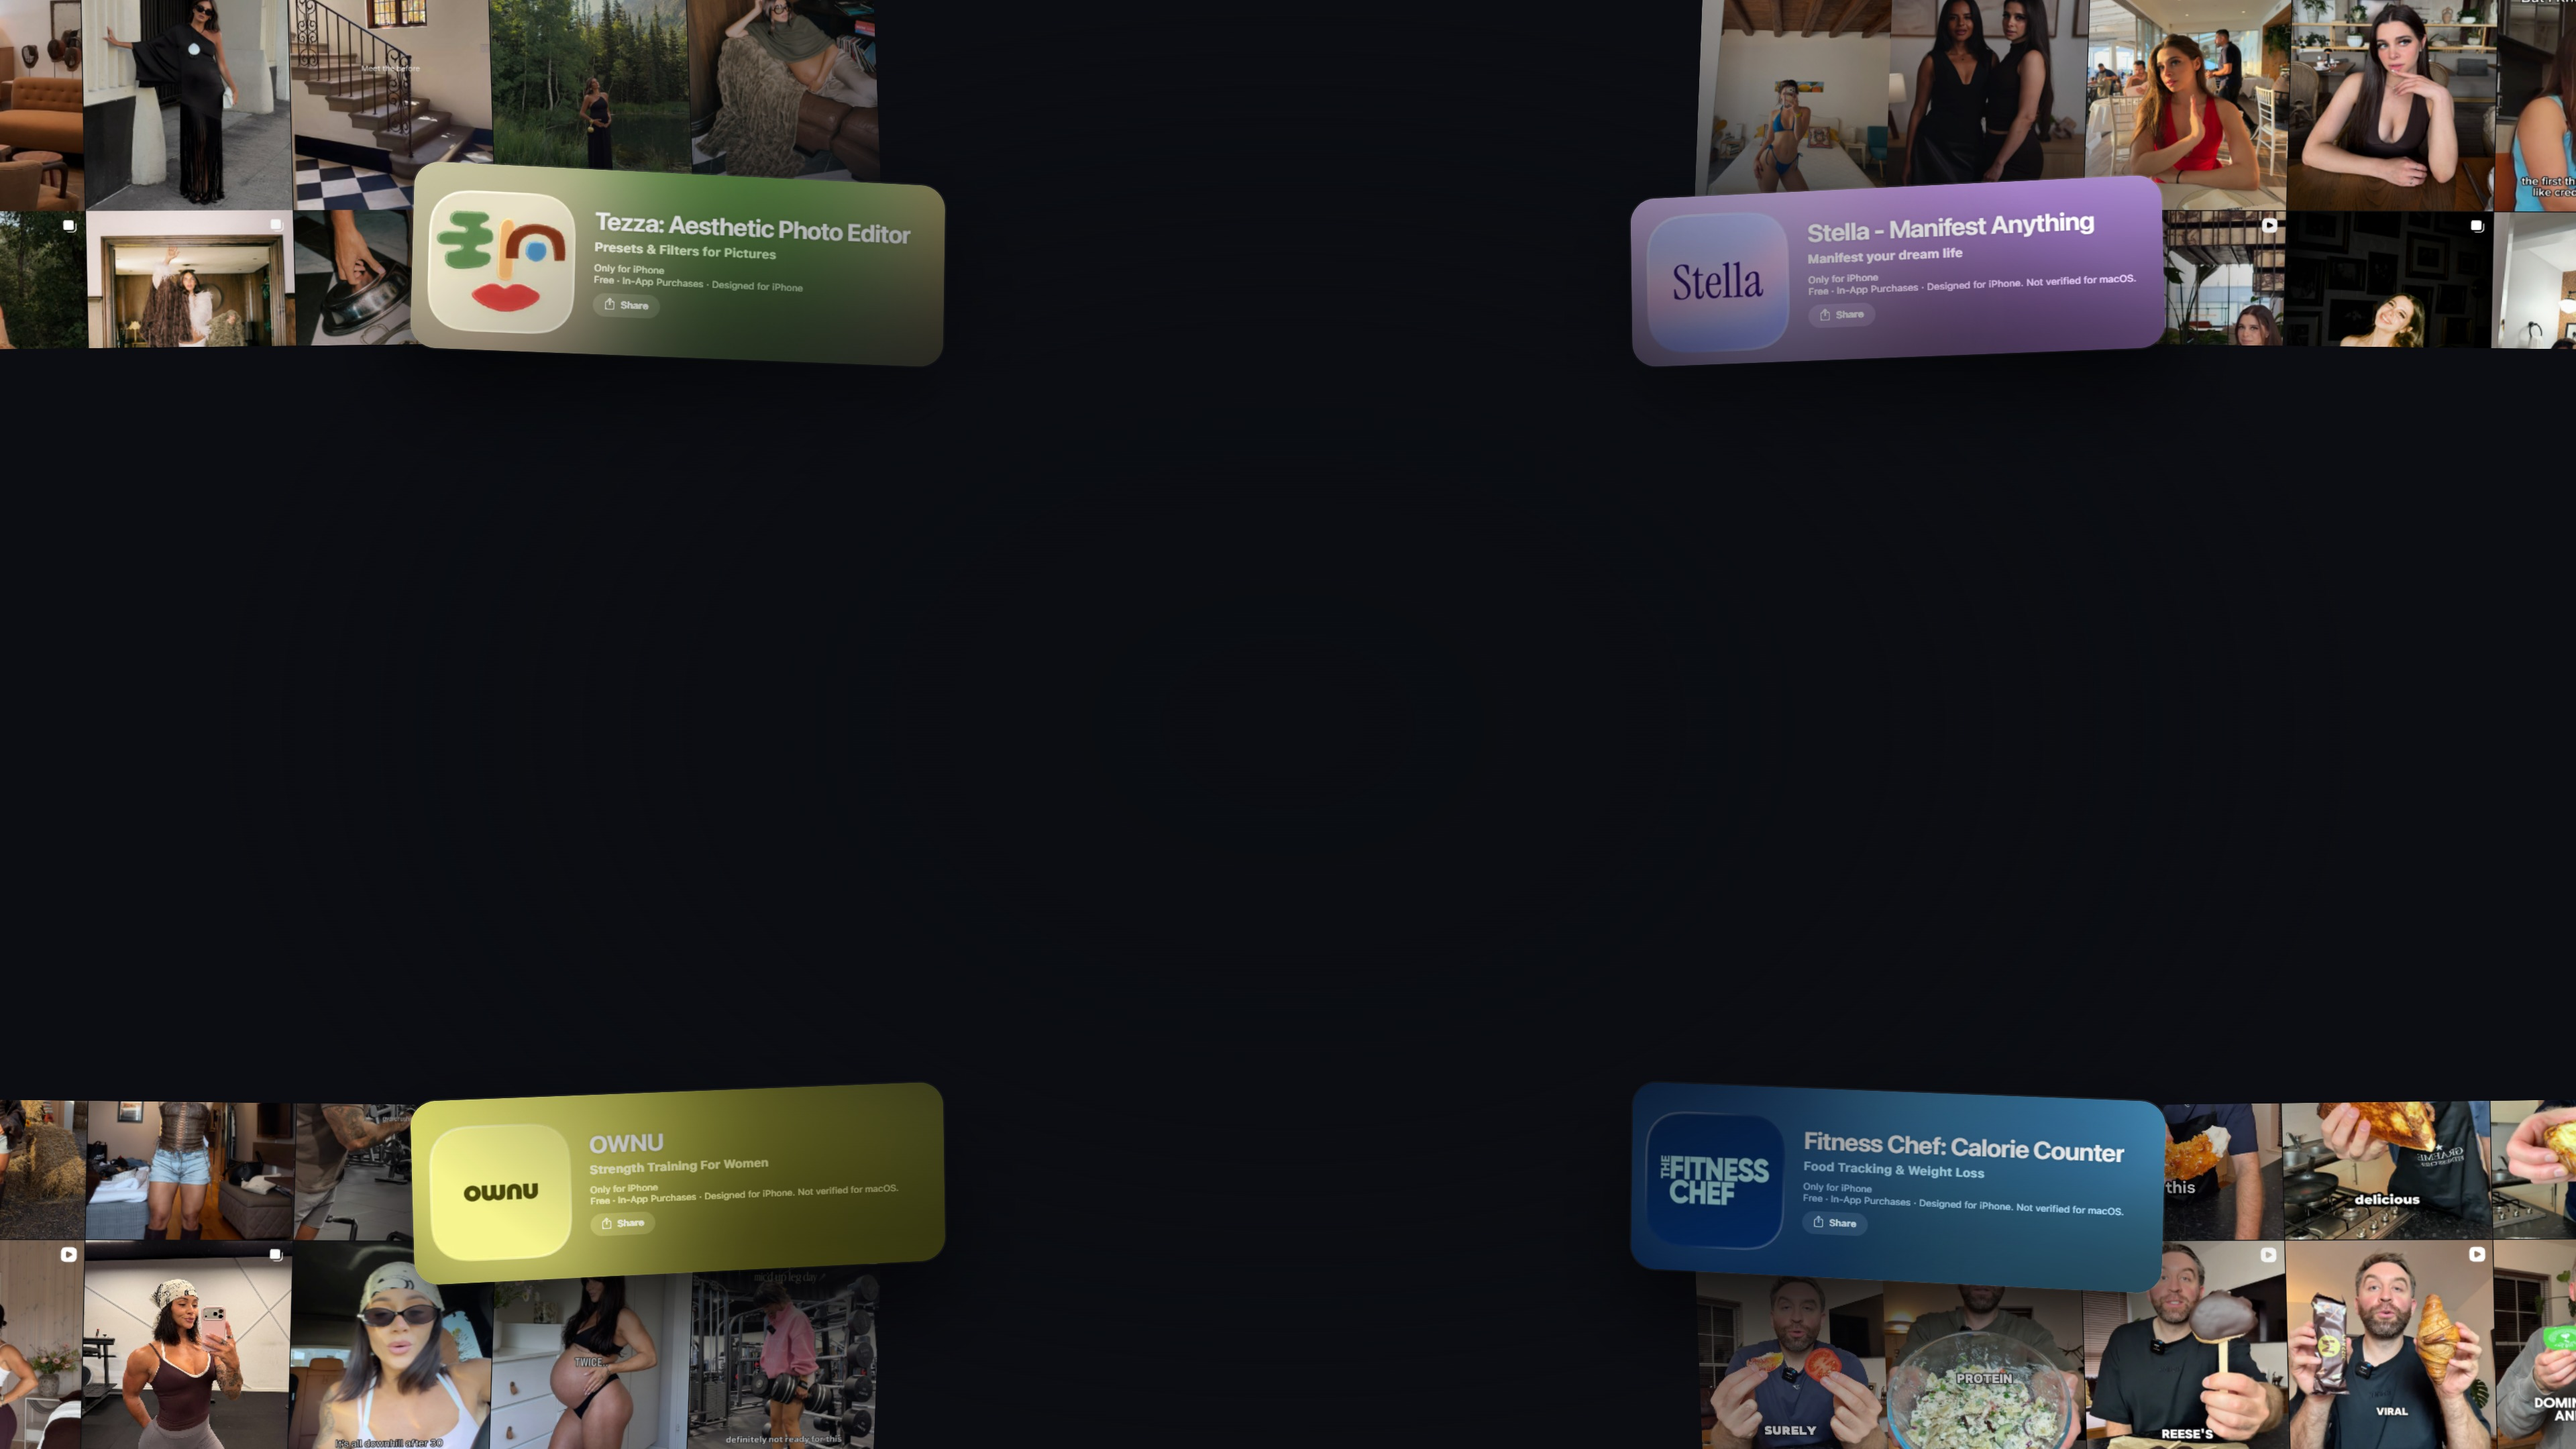
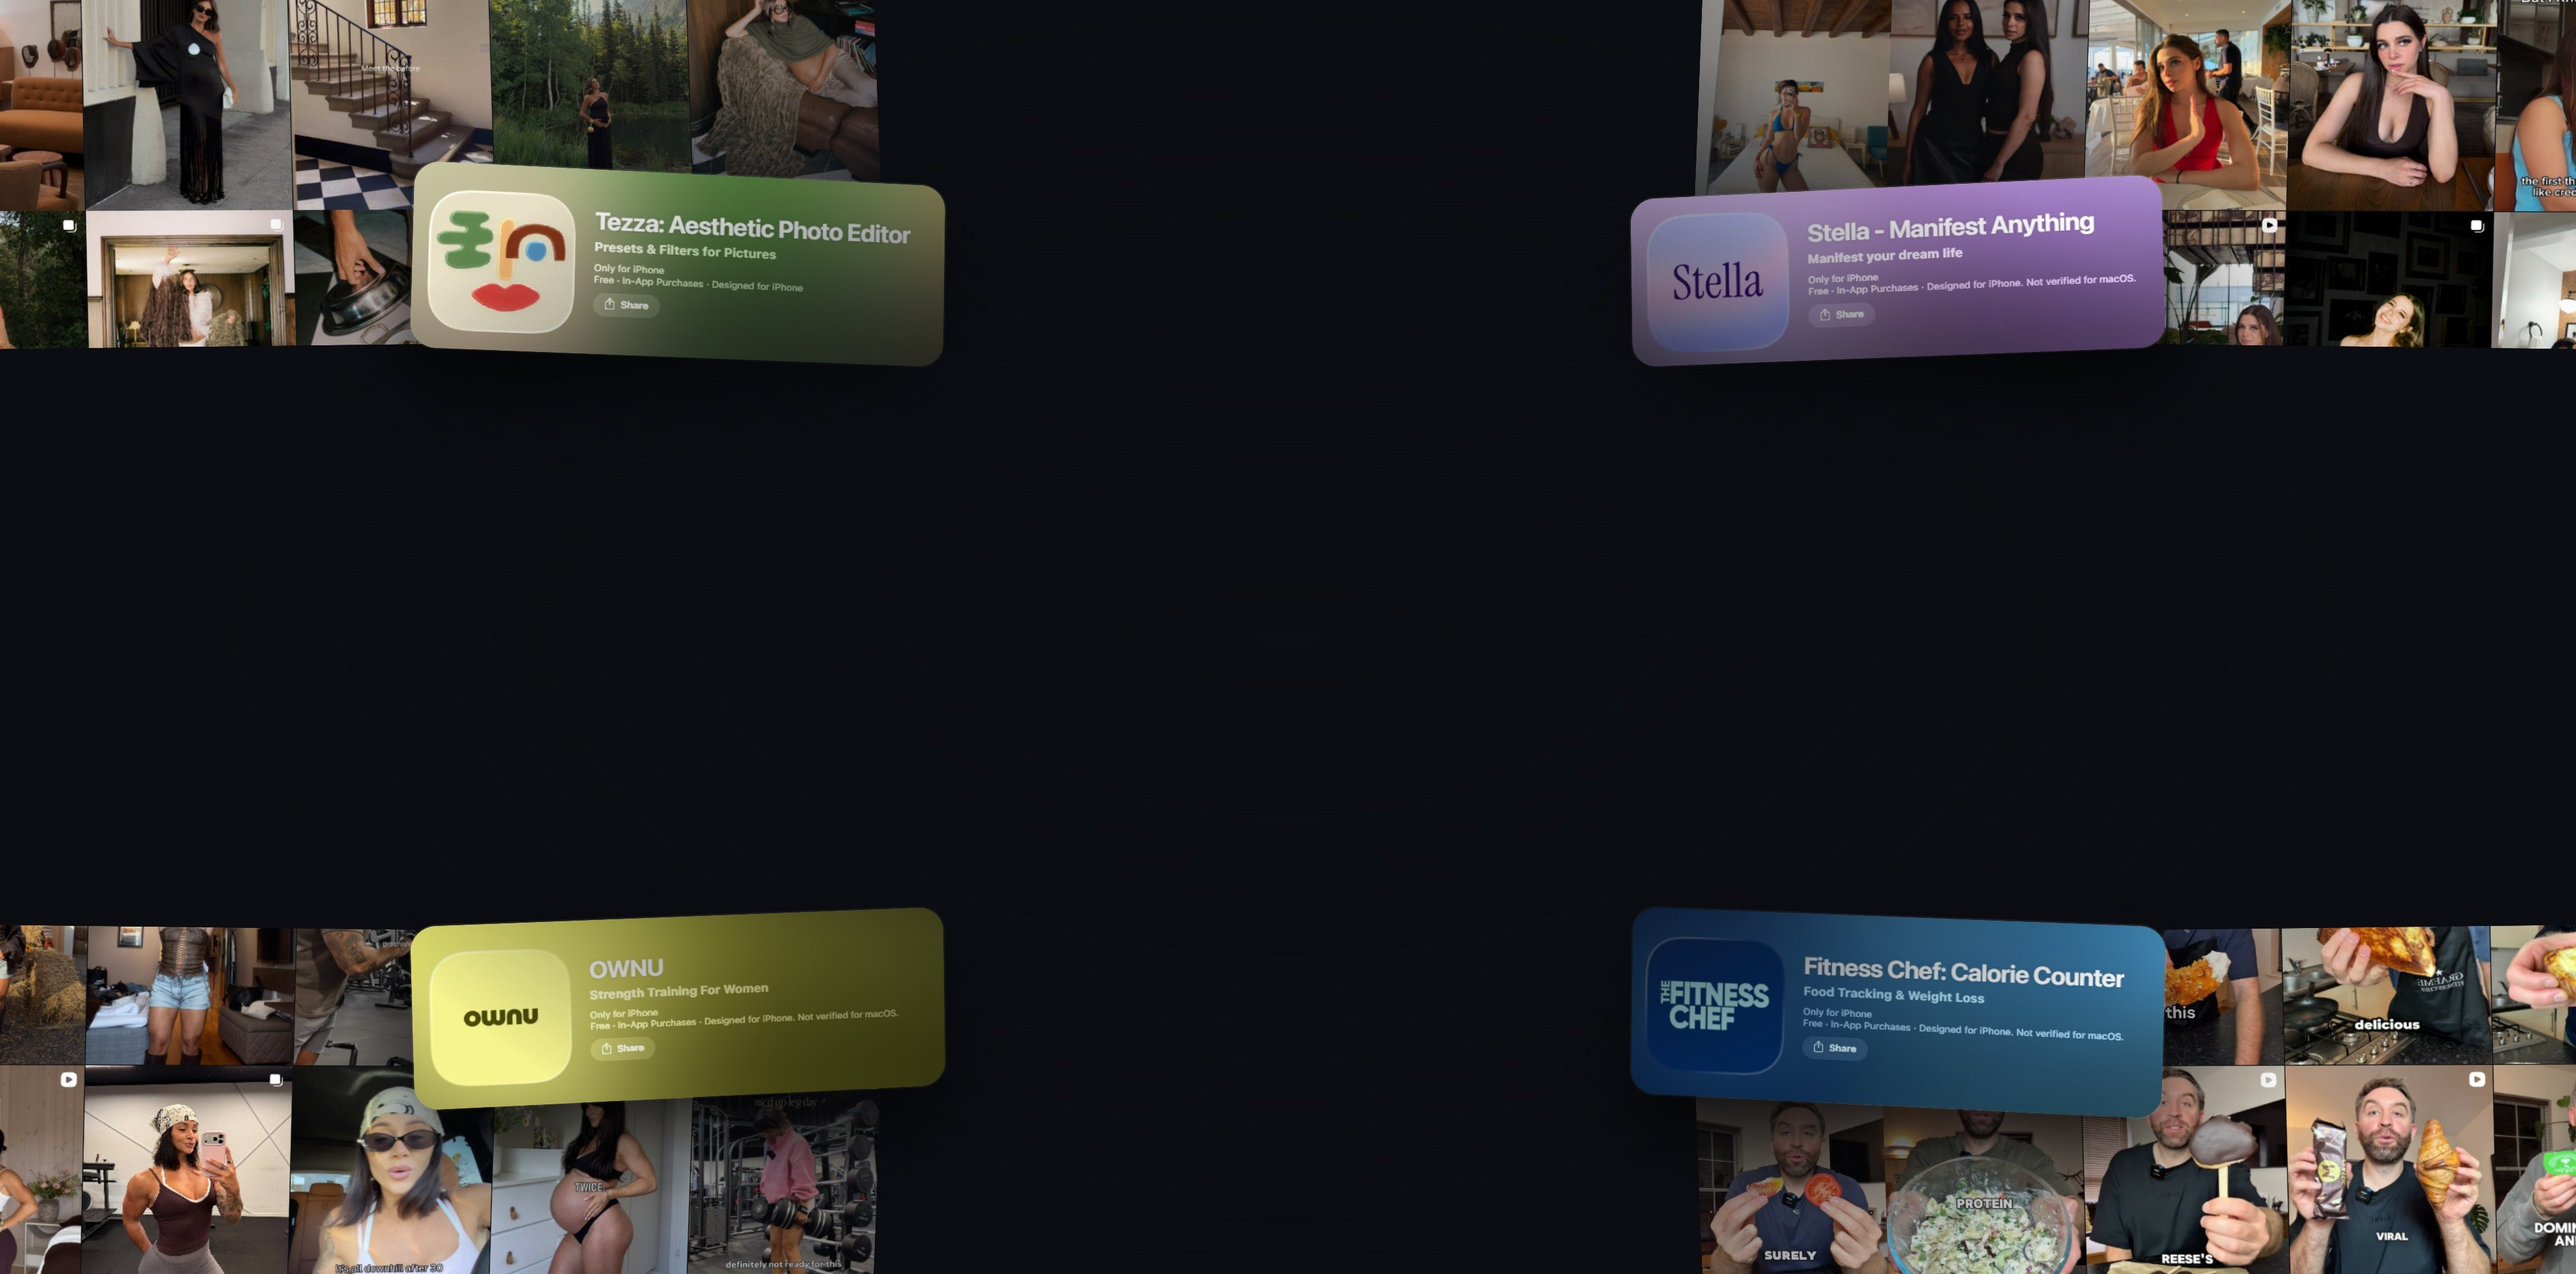
brand: the picture loses 260px of its empty middle and runs edge to edge
hero.jpg is 3840 by 1900 now, the centre slice cut out, so the two
rows sit closer under a full-width cover. The copy is centred in the
band again and the side fade goes.

Claude-Session: https://claude.ai/code/session_01SXhfaDEewBuThDEvZSiB9T

diff --git a/brand/index.html b/brand/index.html
@@ -186,12 +186,12 @@ h1, h2 { font-family: var(--display); font-weight: 500; letter-spacing: -0.04em;
 .hero { position: relative; z-index: 10; }
 /* the photo ground: the cards in the corners, the copy in the empty middle; dissolves into the page top and bottom, zooms slowly */
 .hero-bg { position: absolute; inset: 0; z-index: 0; pointer-events: none; -webkit-mask: linear-gradient(to bottom, transparent, #000 9%, #000 80%, rgba(0,0,0,.45) 91%, transparent 100%); mask: linear-gradient(to bottom, transparent, #000 9%, #000 80%, rgba(0,0,0,.45) 91%, transparent 100%); }
-.hero-bg::before { content: ""; position: absolute; top: 0; height: 100%; aspect-ratio: 16 / 9; left: 50%; translate: -50% 0; background: url(media/hero.jpg) center / cover no-repeat; -webkit-mask: linear-gradient(to right, transparent, #000 10%, #000 90%, transparent); mask: linear-gradient(to right, transparent, #000 10%, #000 90%, transparent); animation: hero-zoom 26s ease-in-out infinite alternate; will-change: transform; }
+.hero-bg::before { content: ""; position: absolute; inset: 0; background: url(media/hero.jpg) center / cover no-repeat; animation: hero-zoom 26s ease-in-out infinite alternate; will-change: transform; }
 @keyframes hero-zoom { from { transform: scale(1); } to { transform: scale(1.07); } }
 @media (prefers-reduced-motion: reduce) { .hero-bg::before { animation: none; } }
 .hero-sticky > :not(.hero-bg) { position: relative; z-index: 1; }
 @media (max-width: 880px) { .hero-bg::after { content: ""; position: absolute; inset: 0; background: radial-gradient(70% 62% at 50% 52%, rgba(5,7,13,.72), rgba(5,7,13,.25) 70%, transparent); } }
-.hero-sticky { position: relative; overflow: clip; min-height: 100svh; display: flex; flex-direction: column; align-items: center; justify-content: flex-start; padding: clamp(150px, 17vw, 330px) 0 clamp(72px, 9vh, 96px); background: radial-gradient(60% 50% at 80% 0%, rgba(38, 62, 120, 0.42), transparent 70%); }
+.hero-sticky { position: relative; overflow: clip; min-height: 100svh; display: flex; flex-direction: column; align-items: center; justify-content: center; padding: clamp(98px, 13vh, 138px) 0 clamp(72px, 9vh, 96px); background: radial-gradient(60% 50% at 80% 0%, rgba(38, 62, 120, 0.42), transparent 70%); }
 .hero-copy { position: relative; z-index: 6; width: min(94%, 1040px); margin: 0 auto; text-align: center; }
 .hero h1 { margin: 0 0 22px; }
 .hero h1 .ln { display: block; }
